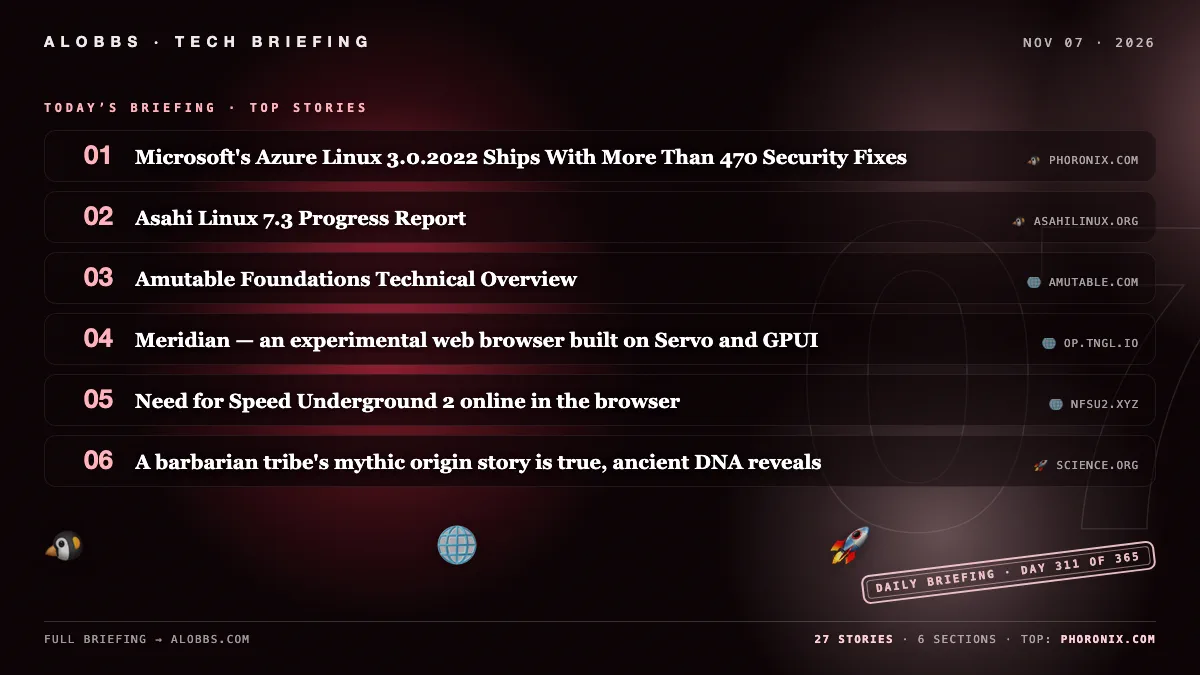
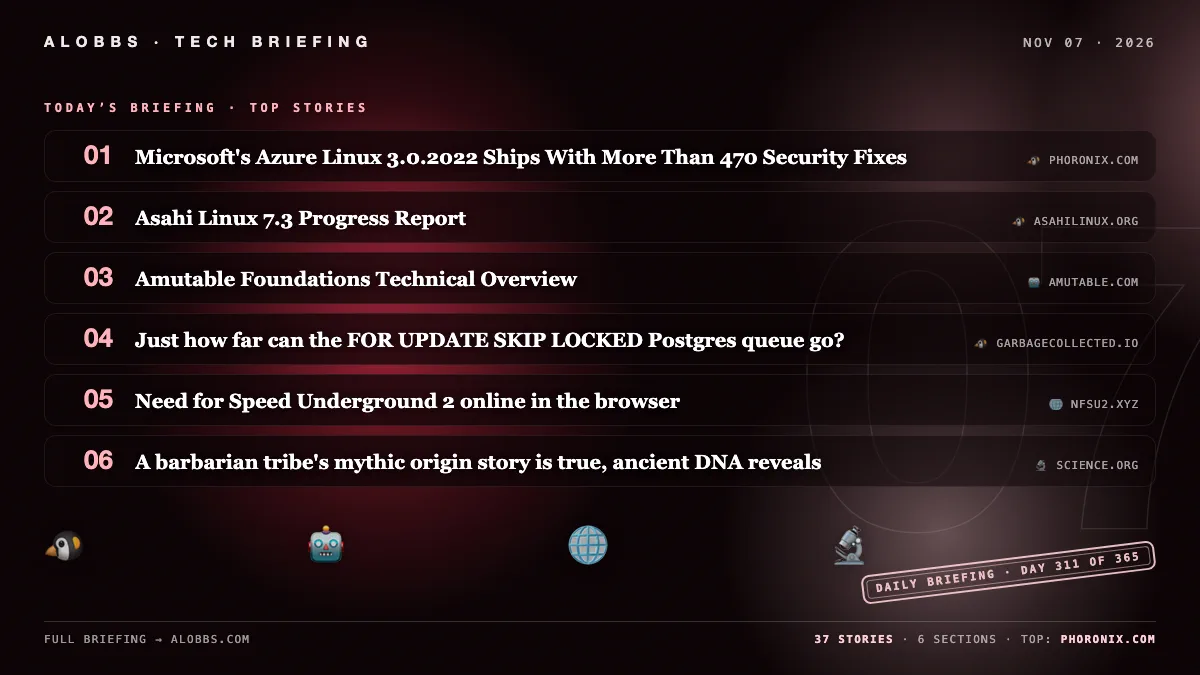
2026-11-07 briefing — 10 new (37 total)

diff --git a/content/post/2026-11-07.md b/content/post/2026-11-07.md
@@ -1,6 +1,6 @@
 ---
 title: "2026-11-07 Briefing"
-date: 2026-11-07 11:51:32.359306
+date: 2026-11-07 15:39:04.969630
 draft: false
 categories: [ "Briefing" ]
 params:
@@ -8,11 +8,17 @@ params:
 cover: "/images/briefings/2026-11-07.webp"
 ---
 
-Asahi Linux moved its repos to GPLv2-or-later over bad-faith MIT exploits and detailed 7.3 upstreaming, M3 support, DCP gains, and M4/M5 devicetrees. Lennart Poettering’s team unveiled Amutable Foundations: immutable Fedora-based AOS images plus fleet-control ACP. Nasscom’s Nambiar warned AI may squeeze Indian engineering grads’ entry jobs and urged a CS curriculum overhaul. Default Forwarded-header trust enables IP/host spoofing.
+Asahi Linux is moving repos to GPLv2-or-later over bad-faith licensing abuse and reports M3 support now generally available. Amutable Foundations detailed an immutable Fedora-based OS with signed images and strict security defaults, plus fleet control. Researchers warn Rails, Spring, and Jetty trust client-supplied Forwarded headers by default, enabling IP/host spoofing. AI hype degrades web search, while Postgres SKIP LOCKED queues reach ~650 jobs/s with pooled connections.
 
 <!--more-->
 
 ## 🤖 AI & Machine Learning
+
+### Amutable Foundations Technical Overview
+
+Lennart Poettering, Michael Vogt, and Joaquim Rocha published a technical overview of Amutable Foundations, comprising Amutable OS (AOS) and the Amutable Control Plane (ACP). AOS is an image-based Linux OS built from Fedora packages into immutable, bit-identical disk images assembled at build time rather than installed on deployed systems, eliminating drift and improving reproducibility, integrity, and testability; it enforces strict security defaults such as no shell, SSH, or language interpreters by default and activates only signed images, while systems merge typically fewer than five coarse images and split large or specific components into system extensions. ACP tracks, controls, updates, and verifies fleets of AOS installations.
+
+- [Amutable Foundations: A Technical Overview](https://amutable.com/blog/amutable-foundations-technical-overview) — *amutable.com*
 
 ### How are you dealing with all the negative side effects of AI on the web?
 
@@ -20,17 +26,47 @@ The author argues that AI hype has degraded the web by pushing low-quality searc
 
 - [How are you dealing with all the negative side effects of AI on the web?]()
 
+### Nasscom's Nambiar warns AI may hurt new Indian engineering grads' jobs, urges CS curriculum overhaul
+
+Nasscom President Rajesh Nambiar warned that AI-driven automation of entry-level coding and software testing could make it harder for recent Indian engineering graduates to find tech jobs. He urged an immediate overhaul of computer science curricula to equip graduates with new skills.
+
+- [Nasscom's Nambiar warns AI may hurt new Indian engineering grads' jobs, urges CS curriculum overhaul](https://asia.nikkei.com/editor-s-picks/interview/india-s-it-lobby-chief-warns-grads-could-struggle-to-find-jobs-due-to-ai) — *asia.nikkei.com*
+
+### Beijing AI video startup Sand.ai raises $200M Series A+, total $300M in 10 months
+
+Beijing-based video-generation AI startup Sand.ai raised $200 million in a Series A+ round, reaching a valuation above $1 billion and bringing its total funding over the past 10 months to $300 million. The round was led by CoStone Capital and Wangsu Science & Technology, with participation from state-backed and existing investors. Sand.ai plans to use the capital for video foundation model R&D, inference infrastructure, product iteration, and global expansion.
+
+- [Beijing AI video startup Sand.ai raises $200M Series A+, total $300M in 10 months](https://www.dealstreetasia.com/stories/sand-ai-enters-unicorn-club-500283/) — *dealstreetasia.com*
+
 ### Meta rolls out Muse Wonder-trained models with Active Memory and Focus for Muse/Meta AI users
 
 Meta is rolling out specialized versions of its existing models, trained using its frontier Muse Wonder model, to all Muse and Meta AI users while reserving Wonder itself for subscribers’ harder tasks. The new models include Active Memory and Active Focus; Meta says Active Memory improves use of critical context to 90% of tasks from 76% previously, while Active Focus helps agents keep working when problems arise.
 
 - [Meta rolls out Muse Wonder-trained models with Active Memory and Focus for Muse/Meta AI users](https://thenewstack.io/meta-muse-specialized-models/) — *thenewstack.io*
 
+### I don't care if web content is AI-generated
+
+The author argues that common objections to AI-generated web content—inaccuracy, inauthenticity, and hidden authorship—also apply to much human-generated content, including misinformation and “human slop.” While he understands unease about AI-written stories presented as factual, he questions why AI authorship matters for fiction, since fiction is inherently inauthentic regardless of who writes it.
+
+- [I don't care if web content is AI-generated](https://kevinboone.me/ai.html) — *kevinboone.me*
+
 ### The Components of Agent Memory
 
 The article explores how AI agents can manage memory by analogy to human memory, separating fast encoding of experiences from offline consolidation. It describes “dreaming” or sleep-time compute, in which agents use idle time to reflect on logs, fix mistakes, and produce memory notes or representations. It also examines tagging salient events and frames memory as a prediction about what future sessions will need, while evaluating each component’s role in memory organization.
 
 - [The Components of Agent Memory](https://www.anthropic.com/research/components-of-agent-memory) — *anthropic.com*
+
+### Implementing GPT-2 in CSS
+
+The author implemented GPT-2 inference entirely in CSS, avoiding JavaScript/WASM and using CSS math plus variable font files for matrix multiplication. The 124M-parameter model runs at roughly 15 seconds per token, with the stylesheets generated ahead of time in Python. The project required hundreds of experiments to reproduce transformer operations like LayerNorm, softmax, and attention in CSS.
+
+- [Implementing GPT-2 in CSS](https://shubhampatil.dev/blog/gpt2-css) — *shubhampatil.dev*
+
+### Fireworks says you’re wasting money on AI unless you’re using all the models
+
+Fireworks argues that organizations waste money on AI if they rely on a single model instead of using multiple models. It advocates managed inference that automatically routes each query to the most suitable model for the job.
+
+- [Fireworks says you’re wasting money on AI unless you’re using all the models](https://www.theregister.com/ai-and-ml/2026/11/07/fireworks-says-youre-wasting-money-on-ai-unless-youre-using-all-the-models/5308277) — *theregister.com*
 
 ## 🔒 Security & Privacy
 
@@ -58,38 +94,6 @@ A review found that NHS staff at Royal Cornwall Hospitals NHS Trust were given a
 
 - [NHS breach helpline left staff carrying a 'significant emotional burden'](https://www.theregister.com/security/2026/11/07/nhs-breach-helpline-left-staff-carrying-a-significant-emotional-burden/5308201) — *theregister.com*
 
-## 🌐 Web & Software
-
-### Amutable Foundations Technical Overview
-
-Lennart Poettering, Michael Vogt, and Joaquim Rocha published a technical overview of Amutable Foundations, comprising Amutable OS (AOS) and the Amutable Control Plane (ACP). AOS is an image-based Linux OS built from Fedora packages into immutable, bit-identical disk images assembled at build time rather than installed on deployed systems, eliminating drift and improving reproducibility, integrity, and testability; it enforces strict security defaults such as no shell, SSH, or language interpreters by default and activates only signed images, while systems merge typically fewer than five coarse images and split large or specific components into system extensions. ACP tracks, controls, updates, and verifies fleets of AOS installations.
-
-- [Amutable Foundations: A Technical Overview](https://amutable.com/blog/amutable-foundations-technical-overview) — *amutable.com*
-
-### Meridian — an experimental web browser built on Servo and GPUI
-
-Meridian is an experimental macOS web browser built in Rust on GPUI and Servo, useful for sites that rely less on JavaScript and complex layout features. It is highly configurable across fonts, keybinds, colors, and tabs, and can be tried via nix. The project is developed on Tangled and welcomes contributions, with open issues available for prospective contributors.
-
-- [Meridian — an experimental web browser built on Servo and GPUI](https://op.tngl.io/meridian/) — *op.tngl.io*
-
-### Two Dimensional Version Control
-
-The author experimented with two-dimensional version control while following a 14-chapter roguelike tutorial, aiming to track both their own coding changes and the changes readers should make per chapter. Using the Jujutsu version control system instead of manual Git branches, they could edit earlier chapters and automatically propagate changes forward or backward across chapter histories. The process involved resolving occasional merge conflicts and cleaning up inconsistencies, but Jujutsu made commits feel editable rather than fixed.
-
-- [Two Dimensional Version Control](https://www.redblobgames.com/blog/2026-09-27-jujutsu-experience/) — *redblobgames.com*
-
-### Need for Speed Underground 2 online in the browser
-
-The text explains how to manage game saves and cloud sync, edit settings and mods, and configure touch, keyboard, and controller controls. It lists key bindings for driving actions, camera, chat, and menus. It also covers touch-control display, thumb steering, and fullscreen/menu options.
-
-- [Need for Speed Underground 2 online in the browser](https://nfsu2.xyz/) — *nfsu2.xyz*
-
-### Windows takes a break at UK motorway services
-
-The article reports that Windows suffered an outage at UK motorway services, disrupting operations. It notes that neither bad drivers nor faulty operating-system software is ideal.
-
-- [Windows takes a break at UK motorway services](https://www.theregister.com/offbeat/2026/11/07/windows-takes-a-break-at-uk-motorway-services/5307862) — *theregister.com*
-
 ## 🐧 Linux & Open Source
 
 ### Asahi Linux 7.3 Progress Report
@@ -98,6 +102,36 @@ Asahi Linux is moving its repositories to GPLv2-or-later, citing bad-faith attem
 
 - [Asahi Linux 7.3 progress report](https://asahilinux.org/2026/11/progress-report-7-3/) — *asahilinux.org*
 - [Asahi Linux Makes Progress On Gaming, More Apple Silicon Upstreaming](https://www.phoronix.com/news/Asahi-Linux-7.3-Report) — *phoronix.com*
+
+### Just how far can the FOR UPDATE SKIP LOCKED Postgres queue go?
+
+The article benchmarks a Postgres-backed job queue using `FOR UPDATE SKIP LOCKED` on a 1-CPU instance. With 64 workers each using its own connection, throughput peaked around 375 jobs/s and CPU saturated before the default 100-connection limit. Using a shared pool of 20 connections let 128 workers reach about 650 jobs/s.
+
+- [Just how far can the FOR UPDATE SKIP LOCKED Postgres queue go?](https://garbagecollected.io/posts/postgres-task-queue-where-it-breaks/) — *garbagecollected.io*
+
+### Two Dimensional Version Control
+
+The author experimented with two-dimensional version control while following a 14-chapter roguelike tutorial, aiming to track both their own coding changes and the changes readers should make per chapter. Using the Jujutsu version control system instead of manual Git branches, they could edit earlier chapters and automatically propagate changes forward or backward across chapter histories. The process involved resolving occasional merge conflicts and cleaning up inconsistencies, but Jujutsu made commits feel editable rather than fixed.
+
+- [Two Dimensional Version Control](https://www.redblobgames.com/blog/2026-09-27-jujutsu-experience/) — *redblobgames.com*
+
+### Automake 1.20 Brings New Features, Desires To Re-Establish GNU As Leading Build System
+
+GNU Automake 1.20 has been released with new features including a `--enable-jobserver` option, a `delete-on-error` option, a `print-distfiles` target, and various bug fixes. The release also switches Automake from GPLv2-or-later to GPLv3-or-later, aligning it with Autoconf and FSF recommendations. The maintainer expressed a desire to re-establish the GNU build system as the leading choice for new software projects, though CMake and Meson adoption poses a challenge.
+
+- [Automake 1.20 Brings New Features, Desires To Re-Establish GNU As Leading Build System](https://www.phoronix.com/news/GNU-Automake-1.20) — *phoronix.com*
+
+### HyprBSD Provides Wayland-Based Desktop Built Atop FreeBSD, Complete With Steam Gaming
+
+HyprBSD is a new FreeBSD-based desktop distribution offering a Wayland desktop built on the Hyprland compositor, with a graphical installer and support for AMD, Intel, and NVIDIA graphics. Based on FreeBSD 15.1-RELEASE, it uses FreeBSD’s Linux compatibility layer to run Steam and a range of games, including some BattlEye-protected titles, and is currently in release-candidate form.
+
+- [HyprBSD Provides Wayland-Based Desktop Built Atop FreeBSD, Complete With Steam Gaming](https://www.phoronix.com/news/HyprBSD) — *phoronix.com*
+
+### Kmorph Aims To Provide Rebootless Linux Kernel Crash Recovery
+
+Kmorph is a new open-source project aiming to provide rebootless Linux kernel crash recovery using out-of-tree Multikernel technology. It can recover important services such as Nginx in as little as about two seconds by switching to a standby fallback kernel. The project does not currently work on the mainline Linux kernel, and wider adoption depends on Multikernel being upstreamed.
+
+- [Kmorph Aims To Provide Rebootless Linux Kernel Crash Recovery](https://www.phoronix.com/news/Kmorph-Linux-Crash-Recovery) — *phoronix.com*
 
 ### KDE Plasma 6.9 Will Stop Leaking Memory When Right Clicking Files/Folders On Desktop
 
@@ -117,13 +151,39 @@ Microsoft released Azure Linux 3.0.2022, its in-house Linux distribution, with m
 
 - [Microsoft's Azure Linux 3.0.2022 Ships With More Than 470 Security Fixes](https://www.phoronix.com/news/Azure-Linux-3.0.2022) — *phoronix.com*
 
+### Running a law firm on Free software
+
+The article provides a 2026 update on running the small English law firm decoded.legal using Free software on both client and server sides. The author says his setup is largely unchanged, detailing continued use of Debian/GNOME on a ThinkPad, Thunderbird and mutt for email, LibreOffice plus pandoc/typst for documents, reveal.js for presentations, and Firefox. He also notes hardware problems with the laptop’s USB-C/Thunderbolt ports and some minor software annoyances.
+
+- [Running a law firm on Free software](https://decoded.legal/blog/2026/11/running-a-law-firm-on-free-software-2026-edition/) — *decoded.legal*
+
 ### Bong: DuckDuckGo bang alternative, open-source and self-hosted
 
 Bong is an open-source, self-hosted alternative to DuckDuckGo bangs that offers 61 shortcuts for quickly searching or navigating to sites and services. The listed shortcuts cover destinations including Google, GitHub, YouTube, Naver, ChatGPT, Claude, Reddit, and various documentation and shopping sites.
 
 - [Bong: DuckDuckGo bang alternative, open-source and self-hosted](https://bong.glendalab.com) — *bong.glendalab.com*
 
-## 📱 Devices & Markets
+## 🌐 Web & Browsers
+
+### Meridian — an experimental web browser built on Servo and GPUI
+
+Meridian is an experimental macOS web browser built in Rust on GPUI and Servo, useful for sites that rely less on JavaScript and complex layout features. It is highly configurable across fonts, keybinds, colors, and tabs, and can be tried via nix. The project is developed on Tangled and welcomes contributions, with open issues available for prospective contributors.
+
+- [Meridian — an experimental web browser built on Servo and GPUI](https://op.tngl.io/meridian/) — *op.tngl.io*
+
+### Need for Speed Underground 2 online in the browser
+
+The text explains how to manage game saves and cloud sync, edit settings and mods, and configure touch, keyboard, and controller controls. It lists key bindings for driving actions, camera, chat, and menus. It also covers touch-control display, thumb steering, and fullscreen/menu options.
+
+- [Need for Speed Underground 2 online in the browser](https://nfsu2.xyz/) — *nfsu2.xyz*
+
+### Brave Sells Its Search Index to AI, and Your Website Is Probably in It
+
+The New York Times sued Brave on Nov. 2, alleging it copied more than 30 billion webpages without identifying its crawler or letting site owners block it, then sold that content to AI companies. Brave sells access to its search index through its Search API, which it says is used by AI firms including Cohere, Mistral, Perplexity, and You.com; Brave has not yet responded to the claims. Because Brave’s crawler does not advertise a distinct user agent and instead follows Googlebot’s rules, websites cannot block Brave without also blocking Google, the article says.
+
+- [Brave Sells Its Search Index to AI, and Your Website Is Probably in It](https://www.searchenginejournal.com/brave-sells-its-search-index-to-ai-and-your-website-is-probably-in-it/595829/) — *searchenginejournal.com*
+
+## 📱 Hardware & Space
 
 ### Tablet shipments drop 23% to 32M in Q3 2026, 3-year low; iPad down 27.5% to 11.58M
 
@@ -143,23 +203,17 @@ Axon has invested $1.2 billion in US drone manufacturer Skydio at a $5.2 billion
 
 - [Axon invests $1.2B in Skydio at $5.2B valuation; drones used by police, military, allies](https://resiliencemedia.co/) — *resiliencemedia.co*
 
-### Beijing AI video startup Sand.ai raises $200M Series A+, total $300M in 10 months
-
-Beijing-based video-generation AI startup Sand.ai raised $200 million in a Series A+ round, reaching a valuation above $1 billion and bringing its total funding over the past 10 months to $300 million. The round was led by CoStone Capital and Wangsu Science & Technology, with participation from state-backed and existing investors. Sand.ai plans to use the capital for video foundation model R&D, inference infrastructure, product iteration, and global expansion.
-
-- [Beijing AI video startup Sand.ai raises $200M Series A+, total $300M in 10 months](https://www.dealstreetasia.com/stories/sand-ai-enters-unicorn-club-500283/) — *dealstreetasia.com*
-
 ### CesiumAstro raises $730M at $4.5B+ valuation for 737-satellite LEO network
 
 CesiumAstro raised $730 million in a Series D led by Janus Henderson at a valuation above $4.5 billion, bringing its total funding to $1.4 billion. The Austin-based satellite manufacturer plans to use the capital to build a 737-satellite low-Earth-orbit communications network at two altitudes for businesses and governments.
 
 - [CesiumAstro raises $730M at $4.5B+ valuation for 737-satellite LEO network](https://www.bloomberg.com/news/articles/2026-11-05/texas-satellite-maker-raises-730-million-to-launch-new-network) — *bloomberg.com*
 
-### The AI sell-off compared to well-known stock market crashes
+### The $8 Linux Computer (2022)
 
-As of Nov. 6, 2026, the AI sell-off has left the S&P 500 about 6% below its record—a mild correction compared with past crashes—while the Nasdaq is down 11% and chip stocks 36%, matching their Covid decline. The article tracks daily data and notes that most prior S&P 500 drops reaching 6% stopped short of 10%.
+The Ox64 is an $8 RISC-V computer capable of running Linux on three different cores, despite resembling a microcontroller. At the time of writing, Ethernet, Wi-Fi, and SD-card support were nonfunctional, and setup required nontrivial UART programming, an RP2040 serial bridge, and modifications to the flashing tool.
 
-- [The AI sell-off compared to well-known stock market crashes](https://www.kadoa.com/companies/insights/ai-selloff-perspective) — *kadoa.com*
+- [The $8 Linux Computer (2022)](http://thelittleengineerthatcould.blogspot.com/2022/12/the-8-linux-computer.html) — *thelittleengineerthatcould.blogspot.com*
 
 ### I Toured Unitree's Factory. I'm More Bullish on the West
 
@@ -167,13 +221,7 @@ A tour of Unitree’s Hangzhou factory found that its robot production remains l
 
 - [I Toured Unitree's Factory. I'm More Bullish on the West](https://josef.cn/blog/unitree) — *josef.cn*
 
-## 🚀 Science & Society
-
-### Nasscom's Nambiar warns AI may hurt new Indian engineering grads' jobs, urges CS curriculum overhaul
-
-Nasscom President Rajesh Nambiar warned that AI-driven automation of entry-level coding and software testing could make it harder for recent Indian engineering graduates to find tech jobs. He urged an immediate overhaul of computer science curricula to equip graduates with new skills.
-
-- [Nasscom's Nambiar warns AI may hurt new Indian engineering grads' jobs, urges CS curriculum overhaul](https://asia.nikkei.com/editor-s-picks/interview/india-s-it-lobby-chief-warns-grads-could-struggle-to-find-jobs-due-to-ai) — *asia.nikkei.com*
+## 🔬 Science & Culture
 
 ### A barbarian tribe's mythic origin story is true, ancient DNA reveals
 
@@ -186,3 +234,15 @@ Ancient DNA from Lombard burials supports the tribe’s traditional origin story
 Prediction markets performed no better than polls or Nate Silver’s FLIPR model in the midterms, especially in close or flipped races, according to the article. It suggests treating prediction markets as entertainment rather than a superior forecasting tool and taxing their ads.
 
 - [Did prediction markets do any predicting this midterms?](https://app.artifactbin.dev/@vivek/AQTt2H-did-prediction-markets-predict-the-midterms) — *app.artifactbin.dev*
+
+### Lighting the Skies
+
+The article argues that radar, though less dramatic than the atomic bomb, likely had a greater impact on World War II’s outcome, while nuclear weapons’ significance is often overstated because they arrived late in the war. It then examines searchlights as another battlefield-changing technology, tracing their use from the 1870 siege of Paris to modern car lots and their roots in early electric arc lighting.
+
+- [Lighting the Skies](https://computer.rip/2026-10-25-searchlights.html) — *computer.rip*
+
+### Windows takes a break at UK motorway services
+
+The article reports that Windows suffered an outage at UK motorway services, disrupting operations. It notes that neither bad drivers nor faulty operating-system software is ideal.
+
+- [Windows takes a break at UK motorway services](https://www.theregister.com/offbeat/2026/11/07/windows-takes-a-break-at-uk-motorway-services/5307862) — *theregister.com*
